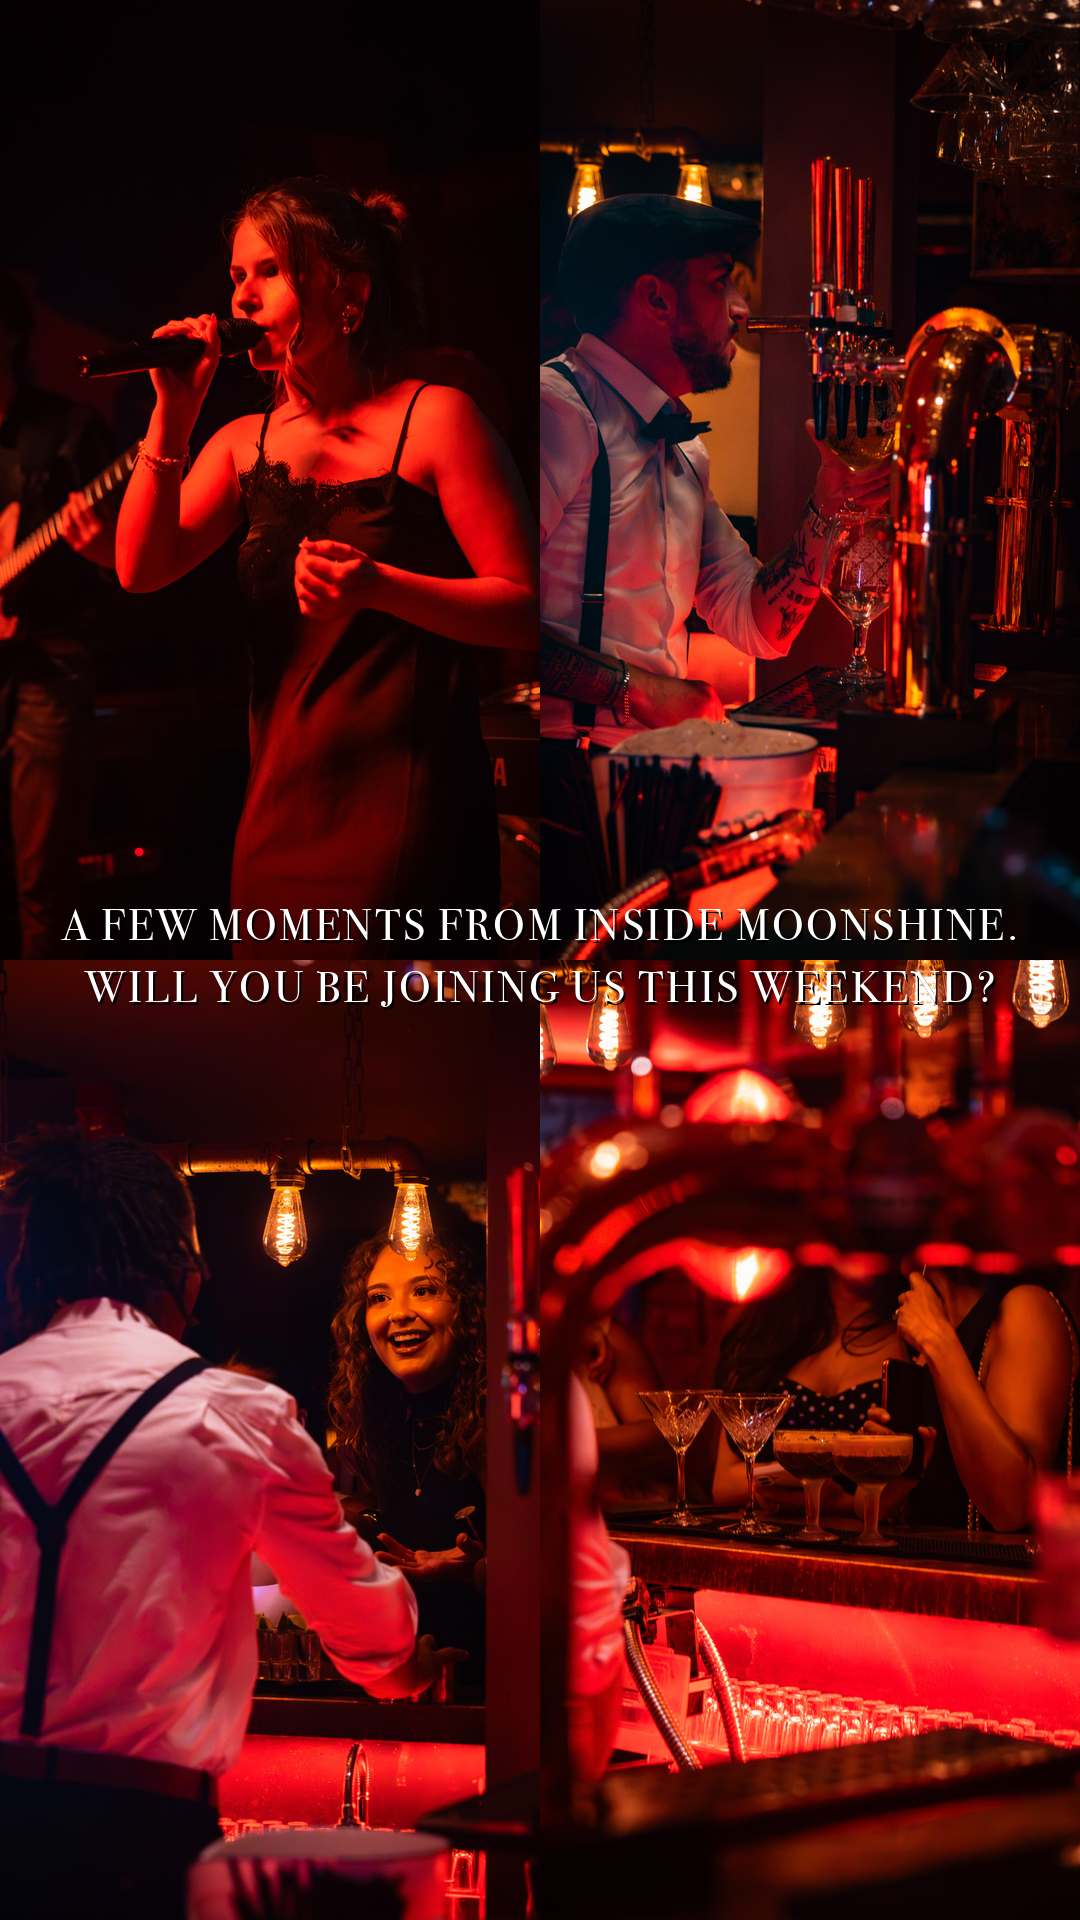
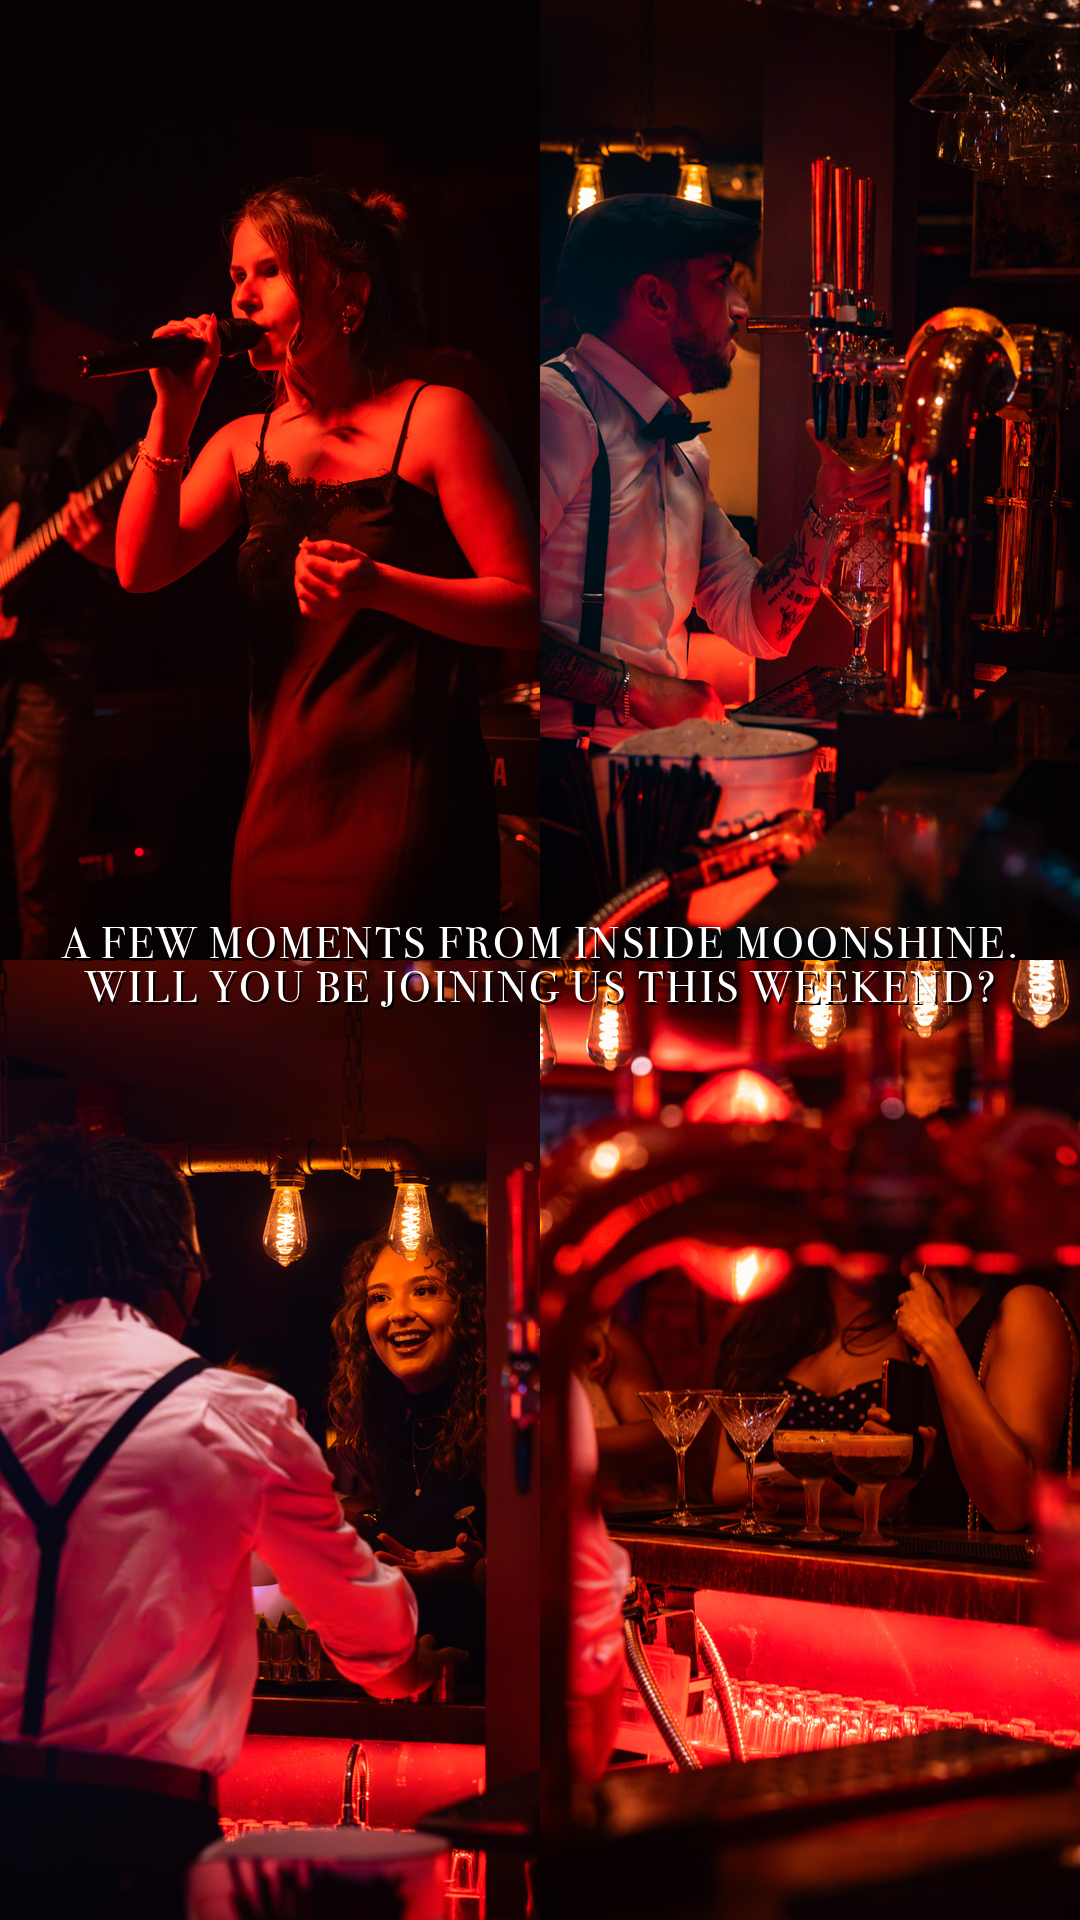
hub snapshot

Changed region(s): [[0.0611, 0.4688, 0.9472, 0.5]]

diff --git a/tools/collage_story.py b/tools/collage_story.py
@@ -49,6 +49,7 @@ p.add_argument("--top", type=int, default=0)
 p.add_argument("--font", choices=["serif", "sans"], default="serif")
 p.add_argument("--size", type=int, default=58)
 p.add_argument("--track", type=float, default=2.5)
+p.add_argument("--leading", type=float, default=1.02)
 p.add_argument("--caps", action="store_true", default=True)
 p.add_argument("--box", action="store_true", default=False)
 p.add_argument("--out", required=True)
@@ -87,7 +88,7 @@ if a.caption:
             d.text((x, y), c, font=font, fill=fill)
             x += d.textlength(c, font=font) + track
 
-    line_h = int(size * 1.42)
+    line_h = int(size * a.leading)
     total_h = line_h * len(lines)
     y = a.top + ch - total_h // 2
     for ln in lines:
